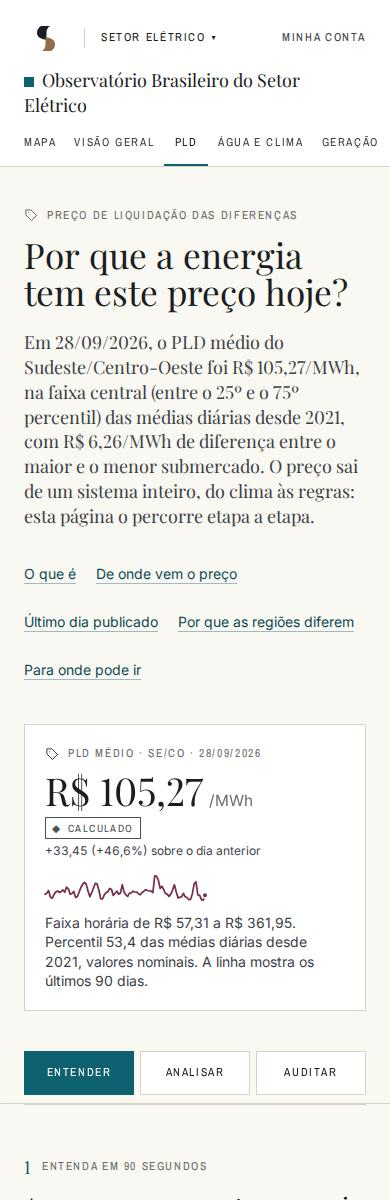
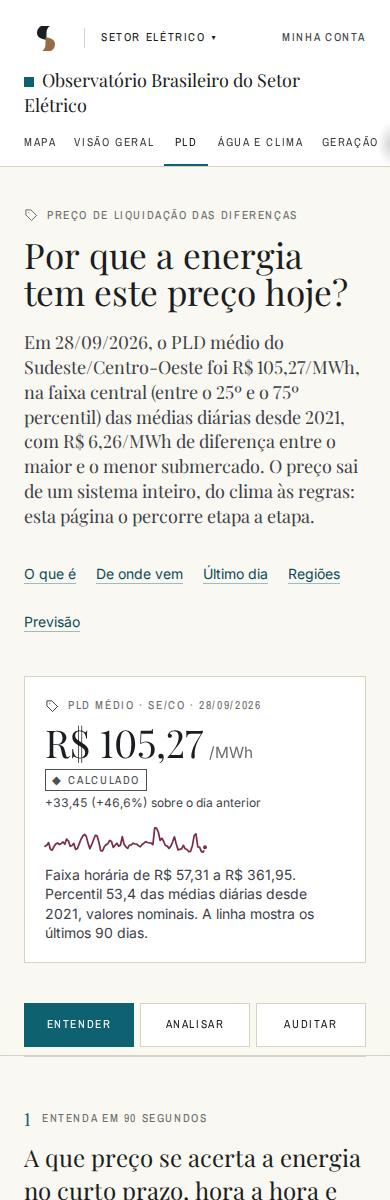
Segunda rodada da auditoria: acabamentos e registro final
Piso de rótulo nos componentes de evidência, rótulo curto no nó das
térmicas do diagrama de formação, subtítulos da miniatura em duas
linhas, controle acessível para as perguntas extras dos observatórios,
unidades sem quebra na faixa do sistema, média móvel de 7 dias na
Visão geral, cartões de fronteira por sigla, marcas fixas no eixo das
horas, abas roláveis, gradiente de rolagem no calendário, na barra de
módulos e na linhagem em texto, e acabamentos de celular no catálogo,
na ficha de conjunto e nas microaulas. Documento de avaliação com as
notas da segunda rodada, o que foi corrigido depois dela e o que
permanece declarado; capturas comparativas finais.

Claude-Session: https://claude.ai/code/session_01Sfbx5eBU7sKyUGsAdhsLnz

diff --git a/src/app/setor-eletrico/visao-geral/page.tsx b/src/app/setor-eletrico/visao-geral/page.tsx
@@ -10,7 +10,8 @@ import { CartoesPld } from "@/components/energia/CartoesPld";
 import { GraficoLinhas } from "@/components/energia/GraficoLinhas";
 import { BarrasMix } from "@/components/energia/BarrasMix";
 import { Sparkline } from "@/components/energia/Sparkline";
-import { intensidadeFaixa } from "@/lib/energia/geo";
+import { NOME_REGIAO, SIGLA_REGIAO, intensidadeFaixa } from "@/lib/energia/geo";
+import { mediaMovel } from "@/lib/energia/series";
 import { MapaVivo, type CamadaMapa } from "@/components/energia/MapaVivo";
 import { SistemaEmUmaTela, type BlocoSistema } from "@/components/energia/SistemaEmUmaTela";
 import { IconeSetor } from "@/components/energia/IconeSetor";
@@ -83,6 +84,11 @@ export default function VisaoGeralEnergia() {
       })
     : [];
   const cargaSerie = integra(carga) ? carga.serie.slice(-365).map((p) => ({ d: p.d, SIN: p.SIN ?? null })) : [];
+  // média móvel de 7 dias, calculada pela plataforma, para a leitura sem o serrilhado semanal; a diária fica na tabela
+  const cargaSerie7 = (() => {
+    const m = mediaMovel(cargaSerie.map((p) => p.SIN));
+    return cargaSerie.map((p, i) => ({ ...p, SIN7: m[i] }));
+  })();
 
   /* ---------- camadas do mapa vivo ---------- */
   const camadas: CamadaMapa[] = [];
@@ -609,15 +615,18 @@ export default function VisaoGeralEnergia() {
               natureza="CALCULADO"
               porQueImporta={<>A <Termo slug="carga">carga</Termo> é o lado da demanda no balanço de energia que o ONS publica por subsistema, ao lado da geração por fonte.</>}
               oQueMudou={<>Em {dataBR(carga.dia_referencia)}, {num(cargaSin.dia, 0)} <Unidade u="MWmed" />. Maior carga diária dos últimos 12 meses: {num(cargaSin.max_12m.valor, 0)} MWmed em {dataBR(cargaSin.max_12m.dia)}.</>}
-              comoInterpretar={<>A comparação anual só é feita quando os dois períodos estão no mesmo regime metodológico do ONS (a estimativa de MMGD entrou na carga em 29/04/2023).</>}
+              comoInterpretar={<>A linha grossa é a média dos 7 dias até cada data, calculada pela plataforma para tirar o serrilhado semanal; a fina é a carga diária. A comparação anual só é feita quando os dois períodos estão no mesmo regime metodológico do ONS (a estimativa de MMGD entrou na carga em 29/04/2023).</>}
               naoConcluir={<>Temperatura, feriados e dias úteis afetam a carga e não são ajustados. Variação de carga não mede atividade econômica por si.</>}
               proveniencia={carga.proveniencia.sin}
             >
               <GraficoLinhas
-                titulo="Carga diária do SIN nos últimos 12 meses"
-                dados={cargaSerie}
+                titulo="Carga do SIN nos últimos 12 meses, média móvel de 7 dias"
+                dados={cargaSerie7}
                 chaveX="d"
-                series={[{ id: "SIN", rotulo: "Carga do SIN", cor: "var(--cor-energia)" }]}
+                series={[
+                  { id: "SIN7", rotulo: "Carga do SIN, média de 7 dias", sigla: "7 dias", cor: "var(--cor-energia)", espessura: 2.2 },
+                  { id: "SIN", rotulo: "Carga diária do SIN", sigla: "diária", cor: "var(--cor-mineral)", espessura: 0.8 },
+                ]}
                 unidade="MWmed"
                 casas={0}
                 ensina={{ texto: "Carga: energia atendida no sistema interligado, em MWmed (energia do dia dividida por 24 horas).", fonte: "ONS", href: "/setor-eletrico/aprenda/carga", hrefRotulo: "Entenda carga" }}
@@ -649,10 +658,14 @@ export default function VisaoGeralEnergia() {
               <ul className="grid gap-3 sm:grid-cols-2 lg:grid-cols-4">
                 {rede.fronteiras.map((f) => {
                   const v = f.fluxo_dia;
-                  const nome = v !== null && v < 0 ? f.nome.split(" → ").reverse().join(" → ") : f.nome;
+                  const [o, d] = v !== null && v < 0 ? [f.para, f.de] : [f.de, f.para];
+                  const nome = `${NOME_REGIAO[o]} → ${NOME_REGIAO[d]}`;
                   return (
-                    <li key={f.par} className="border border-linha p-4">
-                      <p className="rotulo text-mineral">{nome}</p>
+                    <li key={f.par} className="min-w-0 border border-linha p-4">
+                      <p className="rotulo text-mineral" title={nome}>
+                        {SIGLA_REGIAO[o]} → {SIGLA_REGIAO[d]}
+                        <span className="sr-only"> ({nome})</span>
+                      </p>
                       <p className="mt-2 font-serif text-2xl tabular-nums text-carvao">{v === null ? "sem dado" : num(Math.abs(v), 0)}</p>
                       <p className="text-xs text-mineral">MWmed em {dataBR(rede.dia_referencia)}</p>
                       <div className="mt-2">

diff --git a/src/components/home/PainelObservatorio.tsx b/src/components/home/PainelObservatorio.tsx
@@ -11,8 +11,9 @@ const ACENTO: Record<Dominio["acento"], { filete: string; texto: string; hover: 
 /**
  * Painel visual de um observatório: a miniatura viva no alto, o nome, a
  * pergunta que o observatório responde e as perguntas que o portal responde:
- * as três primeiras sempre visíveis, as demais ao passar o ponteiro ou focar no
- * desktop e sempre visíveis no celular. A ação fica alinhada ao pé do painel. Um único painel serve à home (com link) e à tela de escolha
+ * as três primeiras sempre visíveis, as demais num controle "mais N perguntas"
+ * no desktop (funciona com toque e teclado) e sempre visíveis no celular. A
+ * ação fica alinhada ao pé do painel. Um único painel serve à home (com link) e à tela de escolha
  * (com o formulário de entrada e as amostras vivas).
  */
 export function PainelObservatorio({
@@ -73,7 +74,7 @@ export function PainelObservatorio({
           </ul>
           {perguntas.length > 3 && (
             <>
-              <ul className="mt-1.5 space-y-1.5 overflow-hidden text-sm leading-snug text-carvao transition-[max-height] duration-300 ease-out lg:max-h-0 lg:group-hover:max-h-60 lg:group-focus-within:max-h-60">
+              <ul className="mt-1.5 space-y-1.5 text-sm leading-snug text-carvao lg:hidden">
                 {perguntas.slice(3).map((p) => (
                   <li key={p.href} className="flex gap-2">
                     <span aria-hidden="true" className={a.texto}>
@@ -85,7 +86,23 @@ export function PainelObservatorio({
                   </li>
                 ))}
               </ul>
-              <p className="rotulo mt-2 hidden text-mineral lg:block lg:group-hover:hidden lg:group-focus-within:hidden">mais {perguntas.length - 3} perguntas ao passar o ponteiro ou focar</p>
+              <details className="hidden lg:block">
+                <summary className="rotulo inline-flex min-h-[44px] cursor-pointer list-none items-center gap-1 text-mineral hover:text-carvao [&::-webkit-details-marker]:hidden">
+                  <span aria-hidden="true">+</span> mais {perguntas.length - 3} perguntas
+                </summary>
+                <ul className="mt-1 space-y-1.5 text-sm leading-snug text-carvao">
+                  {perguntas.slice(3).map((p) => (
+                    <li key={p.href} className="flex gap-2">
+                      <span aria-hidden="true" className={a.texto}>
+                        →
+                      </span>
+                      <Link href={p.href} className="underline decoration-linha underline-offset-4 hover:decoration-current">
+                        {p.texto}
+                      </Link>
+                    </li>
+                  ))}
+                </ul>
+              </details>
             </>
           )}
         </div>

diff --git a/src/app/setor-eletrico/rede/page.tsx b/src/app/setor-eletrico/rede/page.tsx
@@ -14,6 +14,7 @@ import { MetricaHero } from "@/components/energia/MetricaHero";
 import { IconeSetor } from "@/components/energia/IconeSetor";
 import { TabelaDados } from "@/components/energia/TabelaDados";
 import { Sparkline } from "@/components/energia/Sparkline";
+import { NOME_REGIAO, SIGLA_REGIAO } from "@/lib/energia/geo";
 import { MarcaVisita } from "@/components/telemetria/MarcaVisita";
 import { gold, integra } from "@/lib/energia/gold";
 import { dataBR, num, pct, reais, rotuloRegra } from "@/lib/energia/formato";
@@ -207,10 +208,14 @@ export default function RedePage() {
               <ul className="grid gap-3 sm:grid-cols-2 lg:grid-cols-4">
                 {r.fronteiras.map((f, i) => {
                   const v = f.fluxo_dia;
-                  const nome = v !== null && v < 0 ? f.nome.split(" → ").reverse().join(" → ") : f.nome;
+                  const [o, d] = v !== null && v < 0 ? [f.para, f.de] : [f.de, f.para];
+                  const nome = `${NOME_REGIAO[o]} → ${NOME_REGIAO[d]}`;
                   return (
                     <li key={f.par} className="min-w-0 border border-linha p-4">
-                      <p className="rotulo text-mineral">{nome}</p>
+                      <p className="rotulo text-mineral" title={nome}>
+                        {SIGLA_REGIAO[o]} → {SIGLA_REGIAO[d]}
+                        <span className="sr-only"> ({nome})</span>
+                      </p>
                       <p className="mt-2 font-serif text-2xl tabular-nums text-carvao">{v === null ? "sem dado" : num(Math.abs(v), 0)}</p>
                       <p className="text-xs text-mineral">MWmed no dia · média de 30 dias {f.fluxo_media_30d === null ? "sem dado" : num(Math.abs(f.fluxo_media_30d), 0)}</p>
                       <div className="mt-2">

diff --git a/src/components/energia/SistemaEmUmaTela.tsx b/src/components/energia/SistemaEmUmaTela.tsx
@@ -61,9 +61,9 @@ export function SistemaEmUmaTela({ blocos, chaveUrl = "bloco" }: { blocos: Bloco
                   <IconeSetor tipo={b.icone} tamanho={15} className="text-carvao-muted" />
                   {b.rotulo}
                 </span>
-                <span className="mt-2 font-serif text-[1.65rem] leading-none tabular-nums text-carvao">
+                <span className="mt-2 flex flex-wrap items-baseline gap-x-1.5 font-serif text-[1.65rem] leading-none tabular-nums text-carvao">
                   {b.valor}
-                  {b.unidade && <span className="ml-1 font-sans text-xs text-mineral">{b.unidade}</span>}
+                  {b.unidade && <span className="whitespace-nowrap font-sans text-xs leading-tight text-mineral">{b.unidade}</span>}
                 </span>
                 <span className="mt-2 text-xs leading-snug text-carvao-muted">{b.contexto}</span>
                 {b.sparkline && (
@@ -92,9 +92,9 @@ export function SistemaEmUmaTela({ blocos, chaveUrl = "bloco" }: { blocos: Bloco
                   {atual.rotulo}
                 </p>
                 <p className="mt-2 flex flex-wrap items-center gap-3">
-                  <span className="font-serif text-3xl leading-none tabular-nums text-carvao">
+                  <span className="flex flex-wrap items-baseline gap-x-1.5 font-serif text-3xl leading-none tabular-nums text-carvao">
                     {atual.valor}
-                    {atual.unidade && <span className="ml-1 font-sans text-sm text-mineral">{atual.unidade}</span>}
+                    {atual.unidade && <span className="whitespace-nowrap font-sans text-sm text-mineral">{atual.unidade}</span>}
                   </span>
                   <SeloNatureza natureza={atual.natureza} />
                 </p>

diff --git a/src/components/energia/GraficoLinhas.tsx b/src/components/energia/GraficoLinhas.tsx
@@ -210,7 +210,10 @@ export function GraficoLinhas({
 
   const yt = ticks(yMin, yMax);
   const nx = Math.min(largura < 520 ? 4 : 7, n);
-  const xt = n <= 1 ? [0] : Array.from({ length: nx }, (_, k) => Math.round((k / Math.max(nx - 1, 1)) * (n - 1)));
+  const horaDe = (v: string) => Number(v.length > 5 ? v.slice(11, 13) : v.slice(0, 2));
+  const xtHora = formatoX === "hora" ? dados.map((d, i) => (horaDe(String(d[chaveX] ?? "")) % 6 === 0 || i === n - 1 ? i : -1)).filter((i) => i >= 0) : [];
+  // séries horárias: marcas fixas em 00h, 06h, 12h, 18h e na última hora; demais: índices equidistantes
+  const xt = n <= 1 ? [0] : xtHora.length >= 3 ? xtHora : Array.from({ length: nx }, (_, k) => Math.round((k / Math.max(nx - 1, 1)) * (n - 1)));
   // janela curta (menos de 130 dias): rótulos em dia/mês, para não repetir o mesmo mês nas marcas
   const xCurto = formatoX === "data" && dados.length > 1 && (Date.parse(String(dados[dados.length - 1][chaveX])) - Date.parse(String(dados[0][chaveX]))) / 86400000 < 130;
   const rotuloX = (v: string) => (xCurto && v.length >= 10 ? `${v.slice(8, 10)}/${v.slice(5, 7)}` : fmtX(v, formatoX));
@@ -296,7 +299,7 @@ export function GraficoLinhas({
           return (
             <g key={fx.rotulo} pointerEvents="none">
               <rect x={x(i0)} y={T} width={Math.max(1, x(i1) - x(i0))} height={h - T - B} fill="var(--cor-carvao)" opacity={0.035} />
-              <text x={(x(i0) + x(i1)) / 2} y={T + 11} textAnchor="middle" fontSize="10.5" fill="var(--cor-mineral)">
+              <text x={(x(i0) + x(i1)) / 2} y={T + 11} textAnchor="middle" fontSize="10.5" fill="var(--cor-mineral)" className={x(i1) - x(i0) < 62 ? "hidden" : undefined}>
                 {fx.rotulo}
               </text>
             </g>

diff --git a/src/app/setor-eletrico/carga/page.tsx b/src/app/setor-eletrico/carga/page.tsx
@@ -8,6 +8,7 @@ import { Termo } from "@/components/evidencia/Termo";
 import { Unidade } from "@/components/evidencia/Unidade";
 import { GraficoLinhas } from "@/components/energia/GraficoLinhas";
 import { HeatmapCalendario, resumoHeatmap } from "@/components/energia/HeatmapCalendario";
+import { mediaMovel } from "@/lib/energia/series";
 import { MapaBrasil } from "@/components/energia/MapaBrasil";
 import { MetricaHero } from "@/components/energia/MetricaHero";
 import { IconeSetor } from "@/components/energia/IconeSetor";
@@ -54,13 +55,9 @@ export default function CargaPage() {
   const ultimoAno = c.serie.slice(-365).map((p) => ({ d: p.d, v: p.SIN ?? null }));
   const r = resumoHeatmap(ultimoAno);
   const anoPassado = c.serie.slice(-730, -365);
-  /** Média móvel de 7 dias (calculada pela plataforma) para ler a comparação anual sem o serrilhado semanal. */
-  const media7 = (vals: (number | null)[]) => vals.map((_, i) => {
-    const janela = vals.slice(Math.max(0, i - 6), i + 1).filter((v): v is number => v !== null);
-    return janela.length === 7 ? janela.reduce((a, b) => a + b, 0) / 7 : null;
-  });
-  const atual7 = media7(ultimoAno.map((p) => p.v));
-  const anterior7 = media7(anoPassado.map((p) => p.SIN ?? null));
+  // média móvel de 7 dias (calculada pela plataforma) para ler a comparação anual sem o serrilhado semanal
+  const atual7 = mediaMovel(ultimoAno.map((p) => p.v));
+  const anterior7 = mediaMovel(anoPassado.map((p) => p.SIN ?? null));
   return (
     <>
       <CabecalhoEnergia atual="carga" />

diff --git a/src/components/home/MiniaturaEnergia.tsx b/src/components/home/MiniaturaEnergia.tsx
@@ -20,7 +20,15 @@ const ETAPAS: { id: keyof Pick<MiniaturaEnergiaDados, "ear" | "hes" | "fluxoNeSe
 
 export function MiniaturaEnergia({ dados }: { dados: MiniaturaEnergiaDados }) {
   const W = 520;
-  const H = 150;
+  const H = 164;
+  /** subtítulo em até duas linhas (tspan), quebrado no espaço mais próximo do meio */
+  const linhas = (t: string) => {
+    if (t.length <= 15) return [t];
+    const meio = Math.floor(t.length / 2);
+    let corte = -1;
+    for (let i = 0; i < t.length; i++) if (t[i] === " " && (corte < 0 || Math.abs(i - meio) < Math.abs(corte - meio))) corte = i;
+    return corte < 0 ? [t] : [t.slice(0, corte), t.slice(corte + 1)];
+  };
   const Y = 44;
   const xs = ETAPAS.map((_, i) => 52 + i * ((W - 104) / (ETAPAS.length - 1)));
   const caminho = `M${xs[0]},${Y} L${xs[xs.length - 1]},${Y}`;
@@ -51,7 +59,11 @@ export function MiniaturaEnergia({ dados }: { dados: MiniaturaEnergiaDados }) {
                 {v === null ? "sem dado" : e.fmt(v)}
               </text>
               <text x={xs[i]} y={Y + 68} textAnchor="middle" fontSize="10" fill="var(--cor-mineral)">
-                {e.sub}
+                {linhas(e.sub).map((l, k) => (
+                  <tspan key={k} x={xs[i]} dy={k === 0 ? 0 : 12}>
+                    {l}
+                  </tspan>
+                ))}
               </text>
             </g>
           );

diff --git a/src/app/setor-eletrico/dados/[dataset]/page.tsx b/src/app/setor-eletrico/dados/[dataset]/page.tsx
@@ -95,7 +95,8 @@ export default function DatasetPage({ params }: { params: { dataset: string } })
         <section className="mt-8 border border-linha bg-superficie p-6">
           <h2 className="font-serif text-xl text-carvao">Capturas integradas (vintages)</h2>
           <p className="mt-1 text-sm text-carvao-muted">Cada arquivo baixado com conteúdo novo é uma vintage imutável; download idêntico a uma vintage existente não gera linha nova. A tabela lista todas as vintages, inclusive as substituídas por captura posterior do mesmo arquivo. Os valores das vintages ficam no histórico do processamento (cache da automação e cópia durável), usado para reconstituir o que se sabia em cada data, e não são publicados no portal.</p>
-          <div className="tabela-scroll mt-4" tabIndex={0} role="region" aria-label="Capturas do conjunto (tabela rolável)">
+          <p className="mt-4 text-xs text-mineral sm:hidden">Role de lado para ver todas as colunas.</p>
+          <div className="tabela-scroll mt-2 sm:mt-4" tabIndex={0} role="region" aria-label="Capturas do conjunto (tabela rolável)">
             <table className="w-full min-w-[50rem] border-collapse text-xs">
               <caption className="sr-only">Todas as capturas integradas, por recurso</caption>
               <thead>

diff --git a/src/components/energia/CatalogoFiltro.tsx b/src/components/energia/CatalogoFiltro.tsx
@@ -122,9 +122,9 @@ export function CatalogoFiltro({ itens, estados }: { itens: ItemCatalogo[]; esta
               ) : (
                 i.titulo
               )}
-              <span className="ml-2 text-xs text-mineral">{TEMAS[i.tema] ?? i.tema}{i.formatos.length ? ` · ${i.formatos.slice(0, 4).join(", ")}` : ""}</span>
-              {!i.verificado && <span className="ml-2 text-xs text-aviso">metadados a conferir</span>}
-              {i.descontinuado && <span className="ml-2 text-xs text-mineral">descontinuado na fonte</span>}
+              <span className="block text-xs text-mineral sm:ml-2 sm:inline">{TEMAS[i.tema] ?? i.tema}{i.formatos.length ? ` · ${i.formatos.slice(0, 4).join(", ")}` : ""}</span>
+              {!i.verificado && <span className="block text-xs text-aviso sm:ml-2 sm:inline">metadados a conferir</span>}
+              {i.descontinuado && <span className="block text-xs text-mineral sm:ml-2 sm:inline">descontinuado na fonte</span>}
             </span>
             <span className="col-start-2 flex flex-col gap-1 md:col-start-auto" title={`Estado: ${i.estado}`}>
               <span className="flex gap-0.5" aria-hidden="true">

diff --git a/src/app/setor-eletrico/metodologia/page.tsx b/src/app/setor-eletrico/metodologia/page.tsx
@@ -124,7 +124,8 @@ export default function MetodologiaEnergia() {
           <p className="text-sm">
             <Link href="/setor-eletrico/dados#linhagem" className="text-energia-dark underline underline-offset-4">Mapa de linhagem interativo, com as contagens de cada etapa, na página Dados</Link>
           </p>
-          <pre tabIndex={0} aria-label="Linhagem dos dados, do arquivo da fonte à visualização (rolável)" className="overflow-x-auto border border-linha bg-superficie p-4 font-mono text-xs leading-relaxed text-carvao">{`FONTE (CCEE, ONS, ANEEL)
+          <p className="text-xs text-mineral sm:hidden">Role de lado para ler a linhagem inteira.</p>
+          <pre tabIndex={0} aria-label="Linhagem dos dados, do arquivo da fonte à visualização (rolável)" className="tabela-scroll border border-linha bg-superficie p-4 font-mono text-xs leading-relaxed text-carvao">{`FONTE (CCEE, ONS, ANEEL)
   ↓ captura: arquivo original, sha256, url, capturado_em, publicado_em (metadado da fonte)
 BRONZE: cópia imutável por captura
   ↓ normalização determinística

diff --git a/src/components/energia/DiagramaFormacao.tsx b/src/components/energia/DiagramaFormacao.tsx
@@ -70,8 +70,8 @@ export function DiagramaFormacao({ nos }: { nos: NoComEstado[] }) {
       >
         <span className="flex min-w-0 max-w-full items-center gap-2 text-sm font-medium leading-snug text-carvao">
           <IconeSetor tipo={ICONE[id] ?? "sistema"} tamanho={15} className={`shrink-0 ${ativo ? "text-energia-dark" : "text-mineral"}`} />
-          <span className="min-w-0 break-words">{n.titulo}</span>
-          {n.sigla && <span className={`rotulo ${ativo ? "text-carvao-muted" : "text-mineral"}`}>{n.sigla}</span>}
+          <span className="min-w-0">{n.curto ?? n.titulo}</span>
+          {n.sigla && !n.curto && <span className={`rotulo ${ativo ? "text-carvao-muted" : "text-mineral"}`}>{n.sigla}</span>}
         </span>
         <span className={`mt-1 text-xs tabular-nums ${ativo ? "text-carvao-muted" : "text-mineral"}`}>{n.estado?.resumo ?? (n.estado ? "dado integrado" : "ainda não integrado")}</span>
       </button>

diff --git a/src/app/setor-eletrico/pld/page.tsx b/src/app/setor-eletrico/pld/page.tsx
@@ -220,10 +220,10 @@ export default function PldPage() {
               <nav aria-label="Nesta página" className="mt-6 flex flex-wrap gap-x-5 gap-y-1 text-sm">
                 {[
                   ["#o-que-e", "O que é"],
-                  ["#formacao", "De onde vem o preço"],
-                  ["#hoje", "Último dia publicado"],
-                  ["#submercados", "Por que as regiões diferem"],
-                  ["#previsao", "Para onde pode ir"],
+                  ["#formacao", "De onde vem"],
+                  ["#hoje", "Último dia"],
+                  ["#submercados", "Regiões"],
+                  ["#previsao", "Previsão"],
                 ].map(([h, r]) => (
                   <a key={h} href={h} className="inline-flex min-h-[44px] items-center text-energia-dark underline decoration-energia/40 underline-offset-4 hover:text-carvao">
                     {r}
